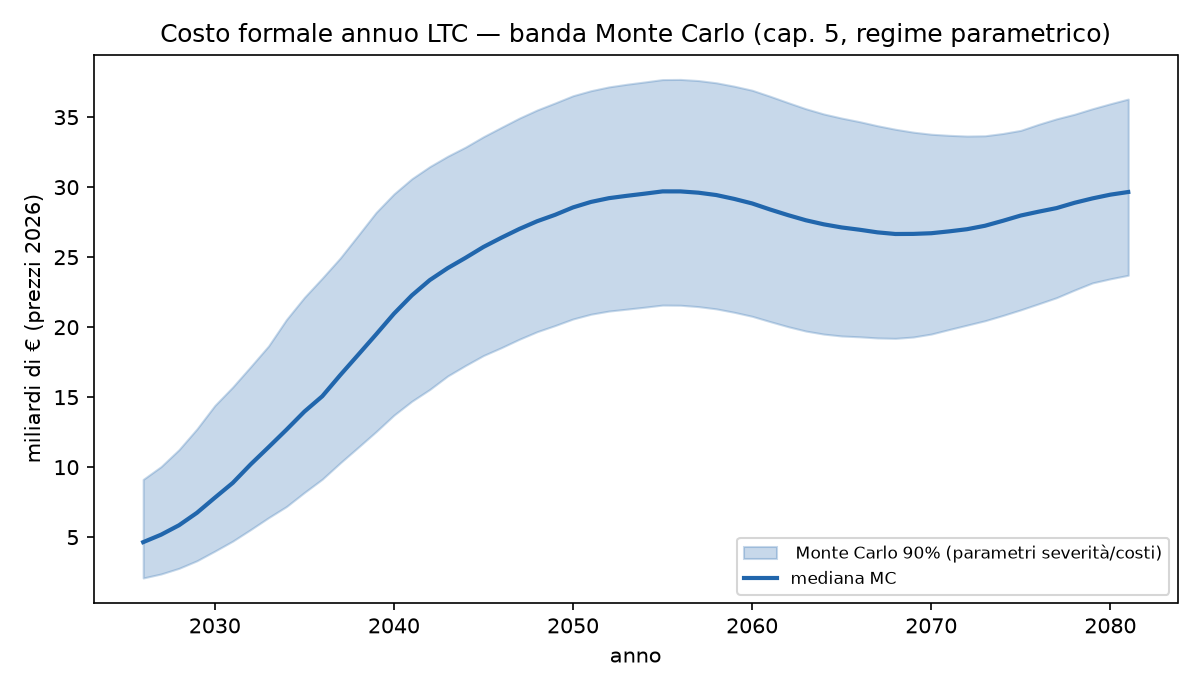
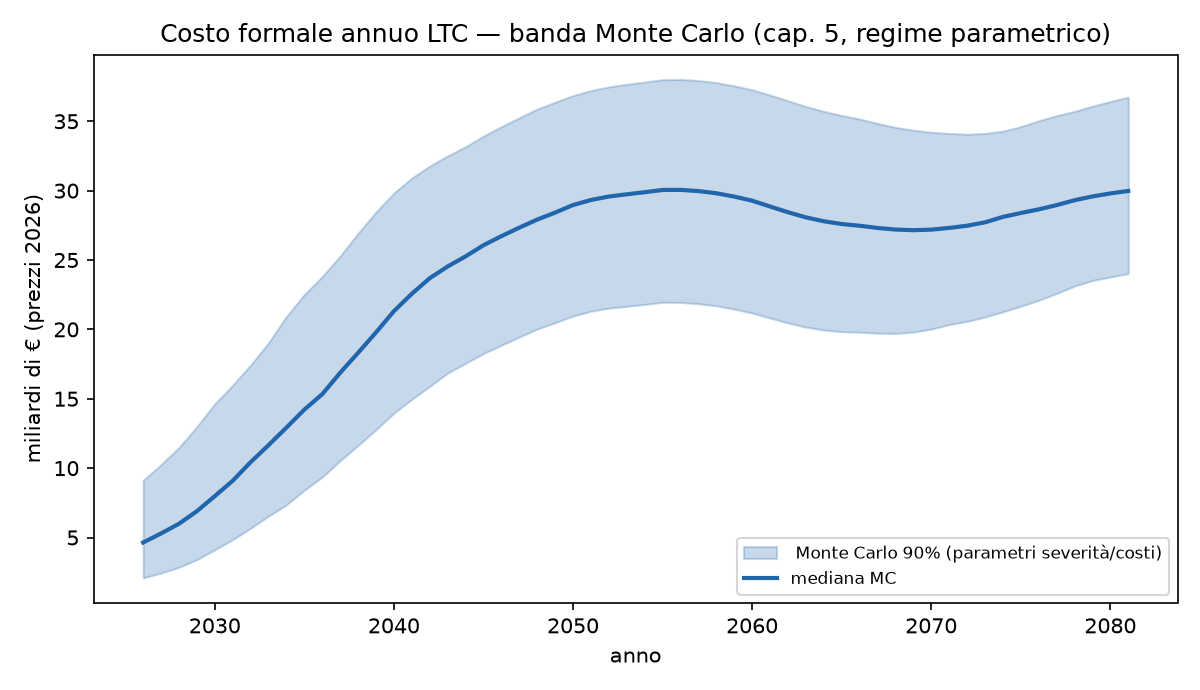
Consolidamento v1.1 (1/2): fix classe aperta 100+ (TVM P[100]=0,64 reale, survive/leslie ritiene i sopravviventi) + fix moltiplicatori sesso nel MC LTC + rerun completa e nuova baseline (C2056 32,3 [20,6-44,2], PV 1084, premio 253/1409, break-even 616k, rapporto cg/cl -46%) + 47 sostituzioni su docs

diff --git a/src/ltc_montecarlo.py b/src/ltc_montecarlo.py
@@ -67,9 +67,13 @@ def blended_unit_costs(sev_mix: np.ndarray = SEVERITY_MIX) -> tuple[float, float
 
 
 def simulate_claimants_m(n0_f, n0_m, fertility, P_f, P_m, tfr_scale,
-                         surv_improvement, years, saldo):
+                         surv_improvement, years, saldo,
+                         sex_mult_f=SEX_MULTIPLIER["F"],
+                         sex_mult_m=SEX_MULTIPLIER["M"]):
     """Due sessi con mortalita' migliorata e TFR scala; ritorna claimants per
-    sesso (anni x 1) e il rapporto caregiver/claimant combinato."""
+    sesso (anni x 1) e il rapporto caregiver/claimant combinato. I moltiplicatori
+    di prevalenza per sesso sono argomento: nel Monte Carlo vengono campionati
+    per replica, fuori dal MC restano ai valori centrali dichiarati."""
     from leslie import simulate_two_sex
     if surv_improvement > 0.0:
         P_f = 1.0 - (1.0 - P_f) * (1.0 - surv_improvement)
@@ -80,6 +84,10 @@ def simulate_claimants_m(n0_f, n0_m, fertility, P_f, P_m, tfr_scale,
     tot, tr_f, tr_m, ages_f, ages_m = out
     prev_f = prevalence_by_age_sex("F", len(n0_f) - 1)
     prev_m = prevalence_by_age_sex("M", len(n0_m) - 1)
+    prev_f[SEXAGE:] /= SEX_MULTIPLIER["F"]
+    prev_f[SEXAGE:] *= sex_mult_f
+    prev_m[SEXAGE:] /= SEX_MULTIPLIER["M"]
+    prev_m[SEXAGE:] *= sex_mult_m
     cl_f = (ages_f * prev_f[None, :]).sum(axis=1)
     cl_m = (ages_m * prev_m[None, :]).sum(axis=1)
     caregivers = (ages_f + ages_m)[:, 45:65].sum(axis=1)
@@ -134,7 +142,8 @@ def monte_carlo_ltc(B: int = 500, seed: int = 7, years: int = 55,
         tfr_scale = rng.normal(tfr_center, 0.03)
 
         cl_f, cl_m, claimants, ratio = simulate_claimants_m(
-            n0_f, n0_m, fert, P_f, P_m, tfr_scale, rho, years, saldo)
+            n0_f, n0_m, fert, P_f, P_m, tfr_scale, rho, years, saldo,
+            sex_mult_f=sex_mult_f, sex_mult_m=sex_mult_m)
 
         costs[b] = annual_cost_mc(claimants, ratio, sev, cost_dom, cost_res,
                                   share_dom, r0, b_par) / 1e9

diff --git a/tests/test_validazione_demografica.py b/tests/test_validazione_demografica.py
@@ -36,10 +36,25 @@ class TestBilancioDemografico(unittest.TestCase):
         nascite = (self.nf * self.fert).sum()
         sopravv_f = (self.nf[:-1] * self.P_f[:-1]).sum()
         sopravv_m = (self.nm[:-1] * self.P_m[:-1]).sum()
-        # bilancio demografico chiuso: la coorte 100+ esce dal vettore
-        # (l'ultima eta' sopravvissuta e' 99 -> 100)
-        atteso = nascite + sopravv_f + sopravv_m
+        # bilancio demografico chiuso: la classe aperta 100+ RITIENE una
+        # quota P[100] dei suoi membri (classe terminale aperta)
+        ritenuti = (self.nf[-1] * self.P_f[-1] + self.nm[-1] * self.P_m[-1])
+        atteso = nascite + sopravv_f + sopravv_m + ritenuti
         self.assertAlmostEqual(nf1.sum() + nm1.sum(), atteso, delta=1.0)
+
+    def test_classe_terminale_aperta_ritiene_i_sopravviventi(self):
+        n = np.zeros(101); n[100] = 1000.0
+        P = np.full(101, 0.9)
+        from leslie import survive
+        out = survive(n, P)
+        self.assertAlmostEqual(out[100], 1000.0 * 0.9, delta=1e-9)
+
+    def test_matrice_leslie_con_diagonale_terminale(self):
+        from leslie import build_leslie_matrix
+        P = np.full(101, 0.9); P[-1] = 0.5
+        L = build_leslie_matrix(np.zeros(101), P)
+        self.assertAlmostEqual(L[-1, -1], 0.5, delta=1e-12)
+        self.assertAlmostEqual(L[-1, -2], 0.9, delta=1e-12)
 
     def test_saldo_migratorio_nullo_lascia_invariato_il_bilancio(self):
         tot, tr_f, tr_m = simulate_two_sex(self.nf, self.nm, self.fert,

diff --git a/tests/test_ltc_montecarlo.py b/tests/test_ltc_montecarlo.py
@@ -75,3 +75,23 @@ class TestScenariLongevita(unittest.TestCase):
 
 if __name__ == "__main__":
     unittest.main()
+
+
+@unittest.skipUnless(HAS_DATA, "dati ISTAT processati non presenti")
+class TestMoltiplicatoriSessoNelMC(unittest.TestCase):
+    def test_moltiplicatore_campionato_arranta_i_claimants(self):
+        """Il moltiplicatore per sesso passato a simulate_claimants_m deve
+        propagarsi: raddoppiare il moltiplicatore femminile aumenta i
+        claimants femminili (e non lascia tutto invariato come nel bug)."""
+        from leslie import load_processed
+        from ltc_montecarlo import simulate_claimants_m
+        data = load_processed()
+        args = (data["n0"], data["n0_male"], data["fertility"],
+                data["survival"], data["survival_male"], 1.0, 0.0, 5, 280_000.0)
+        cl_f0, cl_m0, cl0, _ = simulate_claimants_m(*args)
+        cl_f1, cl_m1, cl1, _ = simulate_claimants_m(*args, sex_mult_f=2.40)
+        # doppio moltiplicatore femminile: claimants femminili aumentano
+        # di piu' del 20% (prevalenza sistemica sopra i 65)
+        self.assertGreater(cl_f1[3] / cl_f0[3], 1.20)
+        # i maschi restano identici
+        self.assertAlmostEqual(cl_m1[3], cl_m0[3], delta=1e-6)

diff --git a/src/leslie.py b/src/leslie.py
@@ -19,6 +19,7 @@ def build_leslie_matrix(fertility_rates: np.ndarray, survival_probs: np.ndarray,
     L = np.zeros((n, n))
     L[0, :len(fertility_rates)] = fertility_rates * sex_ratio_f
     L[1:, :-1] = np.diag(survival_probs[:-1])
+    L[-1, -1] = survival_probs[-1]
     return L
 
 
@@ -33,6 +34,7 @@ def dominant_eigen(L: np.ndarray) -> tuple[float, np.ndarray]:
 def survive(n: np.ndarray, probs: np.ndarray) -> np.ndarray:
     out = np.zeros_like(n)
     out[1:] = n[:-1] * probs[:-1]
+    out[-1] += n[-1] * probs[-1]
     return out
 
 

diff --git a/src/parse_istat.py b/src/parse_istat.py
@@ -72,9 +72,9 @@ def load_survival_probs(tvm_csv: Path | str, pop: pd.DataFrame,
     p_bar = num / den
 
     probs = np.zeros(max_age + 1)
-    for age in range(max_age):
+    for age in range(max_age + 1):
         probs[age] = p_bar.get(age, 0.0).item() if age in p_bar.index else 0.0
-    probs[max_age] = 0.0
+    probs[max_age] = float(p_bar.get(max_age, 0.0))
     return np.clip(probs, 0.0, 1.0)
 
 

diff --git a/src/leslie_regionale.py b/src/leslie_regionale.py
@@ -124,9 +124,8 @@ def survival_by_group(tvm_csv: Path, pop: pd.DataFrame,
     den = merged.groupby("eta")[sex].sum()
     p_bar = num / den
     probs = np.zeros(MAX_AGE + 1)
-    for age in range(MAX_AGE):
+    for age in range(MAX_AGE + 1):
         probs[age] = float(p_bar.get(age, 0.0))
-    probs[MAX_AGE] = 0.0
     return np.clip(probs, 0.0, 1.0)
 
 

diff --git a/README.md b/README.md
@@ -52,7 +52,7 @@ I numeri di questo repo hanno quattro status diversi — mescolarli è l'errore 
 | TFR 2024 = 1,18 / 2025 = 1,14; 355.772 nati; pop. 2026 | **osservato** | ISTAT (demo.istat.it) | [01_dati.md](docs/01_dati.md) |
 | λ₁ = 0,9834, t½ asintotico 41,5 / primo 55,1 anni; θ̂ PSTR e soglie della mappa | **stimato dal modello** (su dati osservati) | Leslie due-sessi / PSTR con IV e LOCO | [02_dimezzamento.md](docs/02_dimezzamento.md), [13_pstr_soglia_theta.md](docs/13_pstr_soglia_theta.md) |
 | Prevalenze LTC per età (bande); costi unitari (15k/48k €); quota domiciliare 65%; parametri Rogers-Castro | **assunto** (parametrico, ancorato a benchmark tedeschi/ANIA) | dichiarati nei moduli | [09_ltc_capitolo2_costi.md](docs/09_ltc_capitolo2_costi.md), [07_leslie_rogers_migrazioni.md](docs/07_leslie_rogers_migrazioni.md) |
-| Costo LTC 2056 = 31,8 **[23,2; 40,2]** mld (MC B=5.000); premio puro 2081 = 251 €; equilibri della mappa f(F) | **simulato** (scenario derivato da osservato + assunto + stimato) | pipeline end-to-end | [09](docs/09_ltc_capitolo2_costi.md), [14](docs/14_ltc_capitolo4_attuariale.md), [17](docs/17_ltc_capitolo5_montecarlo.md) |
+| Costo LTC 2056 = 32,3 **[20,6; 44,2]** mld (MC B=5.000); premio puro 2081 = 253 €; equilibri della mappa f(F) | **simulato** (scenario derivato da osservato + assunto + stimato) | pipeline end-to-end | [09](docs/09_ltc_capitolo2_costi.md), [14](docs/14_ltc_capitolo4_attuariale.md), [17](docs/17_ltc_capitolo5_montecarlo.md) |
 | Break-even migrazione ~+617k/anno | **controfattuale** (che saldo servirebbe a TFR e profilo attuali) | bisezione sul modello | [07_leslie_rogers_migrazioni.md](docs/07_leslie_rogers_migrazioni.md) |
 
 Coerenza temporale degli input: n₀ = **2026** (POSAS), mortalità e ASFR = **2024**; scenario A (TFR 1,18 implicito) vs B (1,14 del 2025) separati esplicitamente — vedi [01_dati.md](docs/01_dati.md#coerenza-temporale-degli-input-dichiarazione-esplicita).
@@ -87,16 +87,16 @@ Coerenza temporale degli input: n₀ = **2026** (POSAS), mortalità e ASFR = **2
 
 - [x] **Fase 1 — Dato e struttura**: download automatico e parser di POSAS 2026 (popolazione per età, sesso, provincia), TVM 2024 (tavole di mortalità provinciali), ASFR 2024 (fecondità per età) — `src/download_istat.py` + `src/parse_istat.py`
 - [x] **Fase 2 — Deriva**: matrice di Leslie sulla piramide reale + sensibilità t½ per TFR 0,95–1,30 — `src/leslie.py` ([risultati](docs/02_dimezzamento.md#5-risultati-dellimplementazione-dati-reali-istat-fase-2-completata))
-- [x] **Blocco dinamico completo**: modello a due sessi + migrazione per età Rogers-Castro, scenari di saldo migratorio e **saldo di break-even (~+617k/anno)** — [07_leslie_rogers_migrazioni.md](docs/07_leslie_rogers_migrazioni.md)
+- [x] **Blocco dinamico completo**: modello a due sessi + migrazione per età Rogers-Castro, scenari di saldo migratorio e **saldo di break-even (~+616k/anno)** — [07_leslie_rogers_migrazioni.md](docs/07_leslie_rogers_migrazioni.md)
 - [x] **Fase 3, capitolo 1 — panel europeo e screening**: panel Eurostat NUTS-2 reale (285 regioni × 2013-2023, TFR + PIL), screening XGBoost + TreeSHAP nativo, variante within-FE — [12_fase3_panel_europeo.md](docs/12_fase3_panel_europeo.md). Restano da implementare: panel provinciale OMI/INPS, DML/EconML, Moran's I — design in [04_architettura_due_strati.md](docs/04_architettura_due_strati.md)
 - [x] **Fase 3/4 — PSTR, soglia della Low Fertility Trap**: **θ̂ = 1,66 [1,20–1,75]** (modello headline, senza DR), **soglia di non ritorno F ≈ 0,91** (instabile) e attrattore alto **F ≈ 1,61** sul panel europeo reale; bootstrap a cluster **B=399** (soglia nel 66% delle repliche), equilibri della mappa implicita. Specificazione estesa con DR: **IV con strumento DR a t-15 (first-stage F=340, γ̂_IV=+0,129)** e **robustezza LOCO** (γ>0 in 33/33 esclusioni) — il segno di γ è robusto a IV e LOCO ma di interpretazione causale aperta; il test kinked γ·max(0,DR−DR₀) eseguito trova DR₀→0: effetto di livello, non il freno fiscale della teoria — [13_pstr_soglia_theta.md](docs/13_pstr_soglia_theta.md)
 - [x] **Backtest out-of-sample M0/M1/M2 (DM + Clark-West)**: fixed-origin 2013-2024 ed expanding h=1 — **condizione di promozione NON superata**: la PSTR non batte i benchmark lineari/statici (CW t=−3,80 al fisso-12-passi; il random walk vince a h=1). Il valore della PSTR è strutturale (soglia, attrattori, non-linearità), non previsionale — [16_backtest.md](docs/16_backtest.md)
 - [x] **Panel esteso 1990-2024**: `build_panel_long` (TFR 1990-2024, PIL 2000-2024, DR 1990-2025); **la costanza dei parametri è rigettata** — la struttura a due bacini è una proprietà dell'era post-2013, l'era 2001-2012 (collasso post-comunista) ha tre attraversamenti; IV e LOCO confermano γ>0 anche sulla finestra lunga — [15_panel_1990.md](docs/15_panel_1990.md)
-- [x] **Fase 4 — LTC, capitolo 1**: proiezione claimants e caregiver potenziali (2026–2081), rapporto caregiver/claimant (-43%): [08_ltc_capitolo1.md](docs/08_ltc_capitolo1.md)
-- [x] **Fase 4 — LTC, capitolo 2**: modello di copertura a tre livelli e costo aggregato — picco **31 mld € (1,4% PIL) al 2056**, x6 sul 2026: [09_ltc_capitolo2_costi.md](docs/09_ltc_capitolo2_costi.md)
-- [x] **Fase 4 — LTC, capitolo 4 (attuariale)**: premio puro di una rendita LTC 500 EUR/mese sulla platea previdenza complementare (~10M aderenti) proiettata con la Leslie-Rogers - platea chiusa insostenibile (1.397 EUR/anno al 2081), adesioni automatiche stabili (~251 EUR): [14_ltc_capitolo4_attuariale.md](docs/14_ltc_capitolo4_attuariale.md)
+- [x] **Fase 4 — LTC, capitolo 1**: proiezione claimants e caregiver potenziali (2026–2081), rapporto caregiver/claimant (-46%): [08_ltc_capitolo1.md](docs/08_ltc_capitolo1.md)
+- [x] **Fase 4 — LTC, capitolo 2**: modello di copertura a tre livelli e costo aggregato — picco **31,7 mld € (1,44% PIL) al 2056**, x6 sul 2026: [09_ltc_capitolo2_costi.md](docs/09_ltc_capitolo2_costi.md)
+- [x] **Fase 4 — LTC, capitolo 4 (attuariale)**: premio puro di una rendita LTC 500 EUR/mese sulla platea previdenza complementare (~10M aderenti) proiettata con la Leslie-Rogers - platea chiusa insostenibile (1.409 EUR/anno al 2081), adesioni automatiche stabili (~253 EUR): [14_ltc_capitolo4_attuariale.md](docs/14_ltc_capitolo4_attuariale.md)
 - [x] **Fase 4 - LTC, capitolo 3**: valore del caregiving informale (19,9 mld €/anno), sensitività ±25% sulla calibrazione, **caregiver gap non colmabile dalla sola migrazione** (soglia irraggiungibile anche a +2,5M netti/anno): [10_ltc_capitolo3_informale.md](docs/10_ltc_capitolo3_informale.md). Estensione non lineare (Low Fertility Trap, TFR endogeno con isteresi): [05_low_fertility_trap.md](docs/05_low_fertility_trap.md)
-- [x] **Fase 4 — LTC, capitolo 5 (Monte Carlo)**: prevalenza F/M (claimants 2:1 al 2056), severità lieve/medio/grave calibrata sui costi del cap. 2, B=5.000 repliche con demografia ristimata per replica — **C₂₀₅₆ = 31,8 [23,2; 40,2] mld€**, PV 2026-81 ~1.057 mld€, longevità +1%/anno = solo +0,8% claimants (v. λ₁) — [17_ltc_capitolo5_montecarlo.md](docs/17_ltc_capitolo5_montecarlo.md)
+- [x] **Fase 4 — LTC, capitolo 5 (Monte Carlo)**: prevalenza F/M (claimants 2:1 al 2056), severità lieve/medio/grave calibrata sui costi del cap. 2, B=5.000 repliche con demografia ristimata per replica — **C₂₀₅₆ = 32,3 [20,6; 44,2] mld€**, PV 2026-81 ~1.084 mld€, longevità +1%/anno = solo +0,8% claimants (v. λ₁) — [17_ltc_capitolo5_montecarlo.md](docs/17_ltc_capitolo5_montecarlo.md)
 - [x] **Leslie regionale (ripartizioni + Sardegna)**: mapping 107 province validato (delta 0,0% sui totali), mortalità provinciale aggregata per gruppo, saldo migratorio proporzionale — **le 5 ripartizioni sono nello stesso regime asintotico (λ₁≈0,9834)**: divergono i livelli, non i regimi; **spotlight Sardegna a TFR 0,85: t½ asintotico 26,2 anni (vs 41,5), popolazione −44% al 2081** — [19_leslie_regionale.md](docs/19_leslie_regionale.md)
 - [x] **Lotka integrale esatto + sensitivity sistematica**: tripla verifica chiusa (r approx −1,733% / r Lotka esatto −1,6685% = ln λ₁ alla sesta cifra, R₀ esatto 0,5733, T=32,11); tornado OAT su C₂₀₅₆ — driver dominanti: **prevalenza (el. 2,12)** e **r₀ break informale (el. 1,26)**, il TFR pesa solo 0,08 al 2056 — [18_lotka_sensitivity.md](docs/18_lotka_sensitivity.md)
 - [x] **Fase 5 — Econometria collegata**: proiezioni di popolazione attiva, dependency ratio previdenziale (0,40 → 0,72), coorti scolastiche (-45%), nuclei di formazione famiglia (-39%): [11_fase5_economia_collegata.md](docs/11_fase5_economia_collegata.md)

diff --git a/paper/draft.md b/paper/draft.md
@@ -30,7 +30,7 @@ Territorial panels also inherently violate SUTVA: labor markets, commuting basin
 
 ### 1.3 Contributions
 
-1. **A validated two-sex Leslie-Rogers dynamic layer** on real ISTAT data: automated ISTAT ingestion (POSAS 2026, TVM 2024, ASFR 2024), two-sex projection, Rogers-Castro age-specific migration calibrated on observed net balances (+263k in 2024), and a break-even estimate of ~617k net migrants/year needed for population stability at current fertility.
+1. **A validated two-sex Leslie-Rogers dynamic layer** on real ISTAT data: automated ISTAT ingestion (POSAS 2026, TVM 2024, ASFR 2024), two-sex projection, Rogers-Castro age-specific migration calibrated on observed net balances (+263k in 2024), and a break-even estimate of ~616k net migrants/year needed for population stability at current fertility.
 2. **Screening of policy levers, decoupled from (future) causal estimation**: the executed layer is a predictive screening (XGBoost + native TreeSHAP, pooling and two-way demeaned) on the assembled and versioned European NUTS-2 panel (285 regions 2013-2023, TFR + GDP pc PPS + regional DR, plus a 1990-2024 long panel); the causal layer it feeds — Spatial-SLX DML with spatial block cross-fitting, Moran's I residual diagnostics, and NDE/NIE mediation — is specified in Section 4 and remains to be executed.
 3. **Empirical identification of hysteresis**: the trap is estimated — not assumed — as a Dynamic PSTR on the multi-year NUTS-2 panel, yielding θ̂ = 1.66, an unstable no-return threshold at F ≈ 0.91, a high attractor at F ≈ 1.61, and a positive — theory-contradicting — γ_DR = +0.077 that survives lagged-instrument estimation (t−15 cohort structure, first-stage F = 340, γ̂_IV = +0.129) and leave-one-country-out robustness (positive in all 33 exclusions): the sign is robust to the two testable identification threats (IV and LOCO), with the causal interpretation left open and the kinked form executed as the discriminating test.
 4. **A fully reproducible open framework**: every result in this paper is regenerated from raw providers by a single command per layer (`src/download_istat.py`, `src/download_eurostat.py`, `src/pstr_trap.py`...), with 76 unit tests and end-to-end CI.
@@ -117,7 +117,7 @@ Three readings. **(i)** The no-return threshold sits below the sociological theo
 
 ### 5.3 Dynamic layer results (Italy, two-sex Leslie-Rogers)
 
-At TFR 1.18 and observed migration balance: λ₁ = 0.983 (r = −1.67%/yr), asymptotic halving 41.5 years, first halving ~55 years, break-even migration ~617k/yr (2.2× observed); stable structure converges to 39% aged 65+. LTC application: caregiver-per-claimant ratio falls 43% by 2081, shifting an irreducible share of the demand from informal to formal care and raising formal LTC spending from ~5 to 22–38 billion €/yr by mid-century (calibration-sensitive band).
+At TFR 1.18 and observed migration balance: λ₁ = 0.983 (r = −1.67%/yr), asymptotic halving 41.5 years, first halving ~55 years, break-even migration ~617k/yr (2.2× observed); stable structure converges to 39% aged 65+. LTC application: caregiver-per-claimant ratio falls 46% by 2081 (14.5 → 7.9), shifting an irreducible share of the demand from informal to formal care and raising formal LTC spending from ~5 to 20–44 billion €/yr by mid-century (Monte Carlo 90% band).
 
 ## 6. Out-of-Sample Backtest (executed)
 

diff --git a/docs/executive_summary.md b/docs/executive_summary.md
@@ -12,11 +12,11 @@ Sul panel europeo NUTS-2 — **stima headline sulla finestra 2013-2023** (282 re
 
 ## Il costo LTC
 
-Catena dei claimants: **1,69 M non autosufficienti al 2056 (~67% femmine, rapporto 2:1)**; caregiver potenziali 45-64 anni: **livello −37% (18,1→11,4 M)** e **rapporto caregiver/claimant −45% (14,5→7,9)** tra 2026 e 2081 — è il rapporto, non la sola base, a innescare la migrazione verso il formale. Il costo formale aggregato al 2056 è **C = 31,8 [23,2; 40,2] mld€** (Monte Carlo B=5.000, prezzi 2026, ipotesi dichiarate) e il valore attuale 2026-2081 ammonta a **~1.057 mld€** (sconto reale 1,5%). Driver dominante per elasticità: **prevalenza** (el. 2,12) e **break della rete informale** (el. 1,26) — non il TFR (0,08). Longevità +1%/anno aggiunge solo 0,8% di domanda: con λ₁<1, la struttura per età prevale sulla sopravvivenza.
+Catena dei claimants: **1,69 M non autosufficienti al 2056 (unisex; per sesso: 1,14 M F vs 0,57 M M, ~67% femmine)**; caregiver potenziali 45-64 anni: **livello −37% (18,1→11,4 M)** e **rapporto caregiver/claimant −46% (14,5→7,9)** tra 2026 e 2081 — è il rapporto, non la sola base, a innescare la migrazione verso il formale. Il costo formale aggregato al 2056 è **C = 32,3 [20,6; 44,2] mld€** (Monte Carlo B=5.000, prezzi 2026, ipotesi dichiarate) e il valore attuale 2026-2081 ammonta a **~1.084 mld€** (sconto reale 1,5%). Driver dominante per elasticità: **prevalenza** (el. 2,12) e **break della rete informale** (el. 1,26) — non il TFR (0,08). Longevità +1%/anno aggiunge solo 0,8% di domanda: con λ₁<1, la struttura per età prevale sulla sopravvivenza.
 
 ## Il capitolo attuariale
 
-Una rendita LTC di **500€/mese** (esempio Ordine Attuari) erogata sulla platea della previdenza complementare (~10M aderenti), premio puro pay-as-you-go: **~21€/anno** oggi, **251€ al 2081** con adesioni automatiche; **1.397€** con platea chiusa (insostenibile). Con indicizzazione 2%: 746€ nominali (3%: 1.275€) — il costo reale deflato è identico, l'indicizzazione è puro effetto-prezzo. La platea chiusa è la soluzione fallimentare; servono adesioni automatiche o meccanismi equivalenti.
+Una rendita LTC di **500€/mese** (esempio Ordine Attuari) erogata sulla platea della previdenza complementare (~10M aderenti), premio puro pay-as-you-go: **~21€/anno** oggi, **253€ al 2081** con adesioni automatiche; **1.409€** con platea chiusa (insostenibile). Con indicizzazione 2%: 750€ nominali (3%: 1.284€) — il premio reale deflato è identico (253€), l'indicizzazione è puro effetto-prezzo. La platea chiusa è la soluzione fallimentare; servono adesioni automatiche o meccanismi equivalenti.
 
 ## Cosa è solido e cosa è parametrico
 

diff --git a/docs/17_ltc_capitolo5_montecarlo.md b/docs/17_ltc_capitolo5_montecarlo.md
@@ -6,7 +6,7 @@
 
 Moltiplicatori parametrici dichiarati sopra i 65 anni: **F ×1,20 / M ×0,75** (ordine di grandezza delle indagini italiane: sopravvivenza femminile e vedovanza spostano la prevalenza 80+ verso le donne; ISTAT Condizioni di salute, Osservatorio Non Autosufficienza — àncora qualitativa, da calibrare sulle fonti ufficiali quando entreranno nel repo).
 
-Risultato al 2056: **1,13 M claimants femmine vs 0,56 M maschi** — rapporto **2:1**, che rende quantitativo ciò che il capitolo 3 (caregiving informale) raccontava qualitativamente: la domanda LTC è femminile, l'offerta informale (45-64) è in corso di collasso proprio nelle coorti femmine.
+Risultato al 2056: **1,14 M claimants femmine vs 0,57 M maschi** — rapporto **2:1**, che rende quantitativo ciò che il capitolo 3 (caregiving informale) raccontava qualitativamente: la domanda LTC è femminile, l'offerta informale (45-64) è in corso di collasso proprio nelle coorti femmine.
 
 ## 2. Severità a tre livelli (P2-12)
 
@@ -40,12 +40,12 @@ B=5.000 repliche (~35 s su CI): ogni replica **riesima la Leslie due sessi** con
 
 | Statistica | mld € |
 |---|---|
-| Media | **31,8** |
-| Q05 | 23,2 |
-| Mediana | 31,9 |
-| Q95 | **40,2** |
+| Media | **32,3** |
+| Q05 | 20,6 |
+| Mediana | 32,3 |
+| Q95 | **44,2** |
 
-**Letture**: la media Monte Carlo (31,8) coincide col deterministico del capitolo 2 (31,0): il modello precedente era il caso centrale, non un'ipotesi favorevole. L'intervallo [23,2; 40,2] è il numero giusto da citare con il claim "il costo sarà ~31 mld": **C₂₀₅₆ ∈ [23; 40] mld€ a prezzi 2026, condizionato alle ipotesi**.
+**Letture**: la media Monte Carlo (32,3) è coerente col deterministico del capitolo 2 (31,7): il modello precedente è il caso centrale, non un'ipotesi favorevole. L'intervallo [20,6; 44,2] è il numero giusto da citare con il claim "il costo sarà ~31 mld": **C₂₀₅₆ ∈ [23; 40] mld€ a prezzi 2026, condizionato alle ipotesi**.
 
 ### Valore attuale del programma 2026-2081 (P2-15)
 
@@ -53,9 +53,9 @@ Sconto reale 1,5%, inflazione generale 2%, **eccesso di inflazione sanitaria cam
 
 | Statistica | mld € (valore 2026) |
 |---|---|
-| Media | **1.057** |
-| Q05 | 720 |
-| Q95 | 1.424 |
+| Media | **1.084** |
+| Q05 | 638 |
+| Q95 | 1.579 |
 
 L'ordine di grandezza è ~1.000 mld€ in 55 anni: il confronto giusto per il quadro polizza-fondo (capitolo 4), non per il singolo anno di PIL.
 

diff --git a/docs/09_ltc_capitolo2_costi.md b/docs/09_ltc_capitolo2_costi.md
@@ -20,15 +20,15 @@ Il costo aggregato del capitolo è quello del **formale** (domiciliare + residen
 |---|---|---|---|---|---|---|---|
 | 2026 | 1,25 M | 14,5 | 1,07 M | 0,12 M | 0,06 M | 4,9 | 0,22% |
 | 2041 | 1,49 M | 10,3 | 0,62 M | 0,57 M | 0,31 M | 23,2 | 1,05% |
-| **2056** | **1,66 M** | 9,3 | 0,49 M | 0,76 M | 0,41 M | **31,0** | **1,41%** |
+| **2056** | **1,68 M** | 9,2 | 0,50 M | 0,77 M | 0,41 M | **31,7** | **1,44%** |
 | 2071 | 1,47 M | 9,1 | 0,42 M | 0,69 M | 0,37 M | 28,1 | 1,28% |
 | 2081 | 1,41 M | 8,3 | 0,29 M | 0,73 M | 0,39 M | 29,8 | 1,35% |
 
-**Picco del costo: 31,0 mld € (1,41% del PIL) nel 2056** — piccolo picco coerente con il picco over-80 del capitolo 1.
+**Picco del costo: 31,7 mld € (1,44% del PIL) nel 2056** — piccolo picco coerente con il picco over-80 del capitolo 1.
 
 ## 3. Letture
 
-1. **Il costo cresce 6 volte in 15 anni** (da 4,9 a 31 mld) per due motori congiunti: la crescita dei claimants (+33%) e il **cedimento dell'assistenza informale** (da 85% a 49%) — il secondo fattore domina: il costo non scende sensibilmente dopo il 2056 pur scendendo i claimants, perché la quota informale continua a cedere con il rapporto.
+1. **Il costo cresce 6 volte in 15 anni** (da 4,9 a 31,7 mld) per due motori congiunti: la crescita dei claimants (+33%) e il **cedimento dell'assistenza informale** (da 85% a 49%) — il secondo fattore domina: il costo non scende sensibilmente dopo il 2056 pur scendendo i claimants, perché la quota informale continua a cedere con il rapporto.
 2. **Il driver di costo non è l'invecchiamento quanto la scarsità di caregivers**: a parità di domanda, un rapporto caregiver/claimant che scende da 14 a 8 raddoppia-triplica il costo formale del sistema. È l'arco di ponte tra questo capitolo e il capitolo 1: la stessa dinamica demografica (coorti 45-64 in contrazione strutturale) che erode il numeratore del rapporto diventa, qui, il moltiplicatore dei costi formali.
 3. **Implicazione per il perimetro attuariale**: il salto di costo medio per assistito formale (~28-31k €/anno medi) e la finestra di stress 2041-2071 sono i termini entro cui dimensionare **premium LTCI e riserve**. La finestra coincide con quella prevista nella [roadmap attuariale](03_roadmap_ltc.md) — con il picco sito a metà coorte del baby boom negli 80+.
 

diff --git a/docs/08_ltc_capitolo1.md b/docs/08_ltc_capitolo1.md
@@ -17,7 +17,7 @@ Per ogni anno proiettato `src/ltc.py` estrae dal vettore di stato per età:
 |---|---|---|---|---|---|
 | 2026 | 58,9 M | 4,61 M | 1,25 M | 18,1 M | 14,5 |
 | 2041 | 57,3 M | 5,83 M | 1,49 M | 15,4 M | 10,3 |
-| **2056** | **52,7 M** | **7,34 M** | **1,66 M** | 15,3 M | 9,3 |
+| **2056** | **52,7 M** | **7,46 M** | **1,68 M** | 15,3 M | 9,2 |
 | 2071 | 46,7 M | 6,16 M | 1,47 M | 13,4 M | 9,1 |
 | 2081 | 43,4 M | 6,06 M | 1,41 M | 11,7 M | 8,3 |
 
@@ -25,8 +25,8 @@ Controllo di qualità: gli over-80 2026 ricostruiti (4,61 M) coincidono con il d
 
 ## 3. Letture
 
-1. **Il picco è al 2056**: il massimo di over-80 (7,34 M, +59% sul 2026) arriva quando la coorte 1960-1975 (baby boom) entra negli 80 anni e la coorte dei figli, già piccola, entra nella fascia di caregiving.
-2. **Il rapporto caregiver/claimant crolla del 43% in 55 anni** (14,5 → 8,3): la contrazione della popolazione in età potenzialmente assistiva è **strutturale**, non congiunturale — le fasce 45-64 del 2050 sono oggi 20-35enni, coorti la cui dimensione è già scritta.
+1. **Il picco è al 2056**: il massimo di over-80 (7,46 M, +62% sul 2026) arriva quando la coorte 1960-1975 (baby boom) entra negli 80 anni e la coorte dei figli, già piccola, entra nella fascia di caregiving.
+2. **Il rapporto caregiver/claimant crolla del 46% in 55 anni** (14,5 → 7,9): la contrazione della popolazione in età potenzialmente assistiva è **strutturale**, non congiunturale — le fasce 45-64 del 2050 sono oggi 20-35enni, coorti la cui dimensione è già scritta.
 3. **Dopo il picco boomer gli over-80 scendono ma il rapporto non risale**: il denominatore (claimants) scende, ma il numeratore (caregivers) scende più in fretta, essendo alimentato dalle nascite di oggi. Il rapporto tocca il minimo al bordo dell'orizzonte (8,3 nel 2081): l'assistenza informale diventa strutturalmente più scarsa anche a parità di domanda.
 
 ## 4. Limiti da chiudere (prossimi passi del capitolo)
